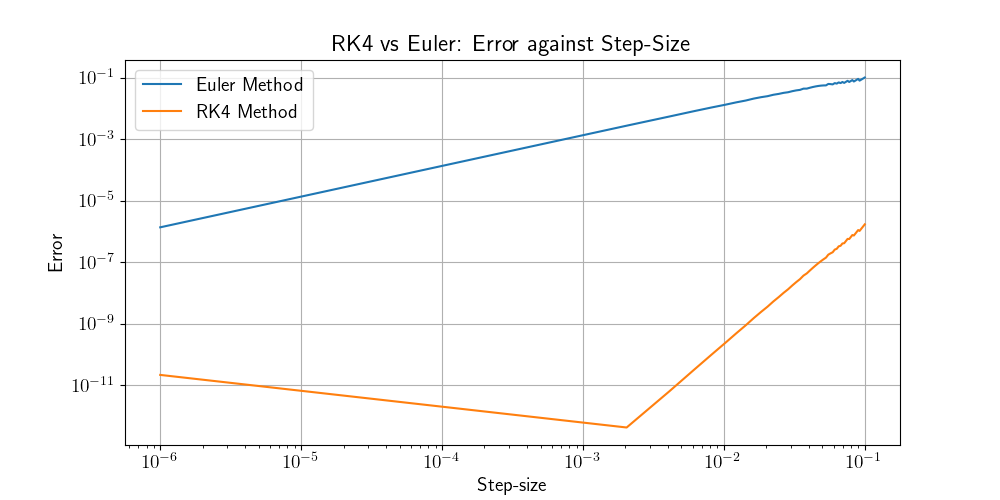
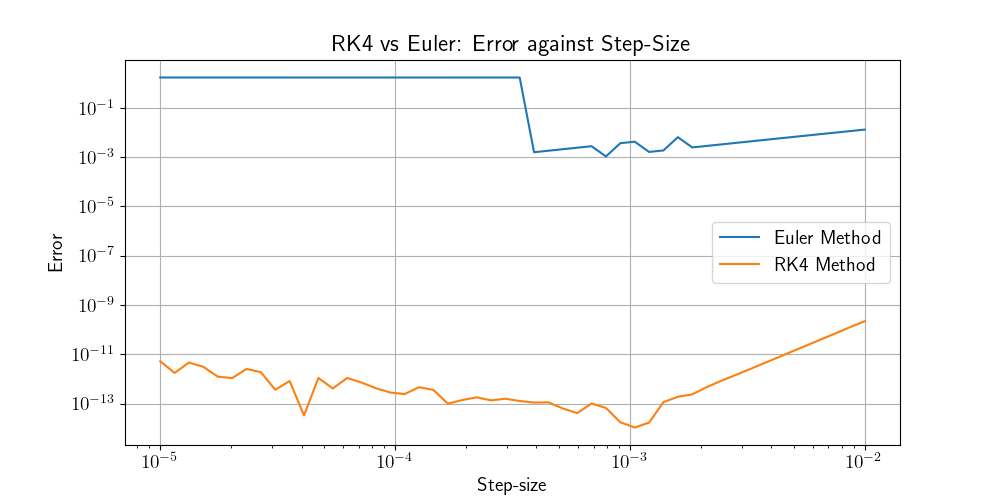
Used logspace for error plots

diff --git a/week14.py b/week14.py
@@ -82,7 +82,7 @@ def week14_excersises():
     h = 0.01
 
     # Produces loglog plot for a set of stepsizes
-    steps = np.linspace(1e-6, 0.1, 50)
+    steps = np.logspace(-5, -2, 50)
     error_euler = euler(ode, x0, t1, t2, steps)
     error_runge = runge_kutta(ode, x0, t1, t2, steps)
     
